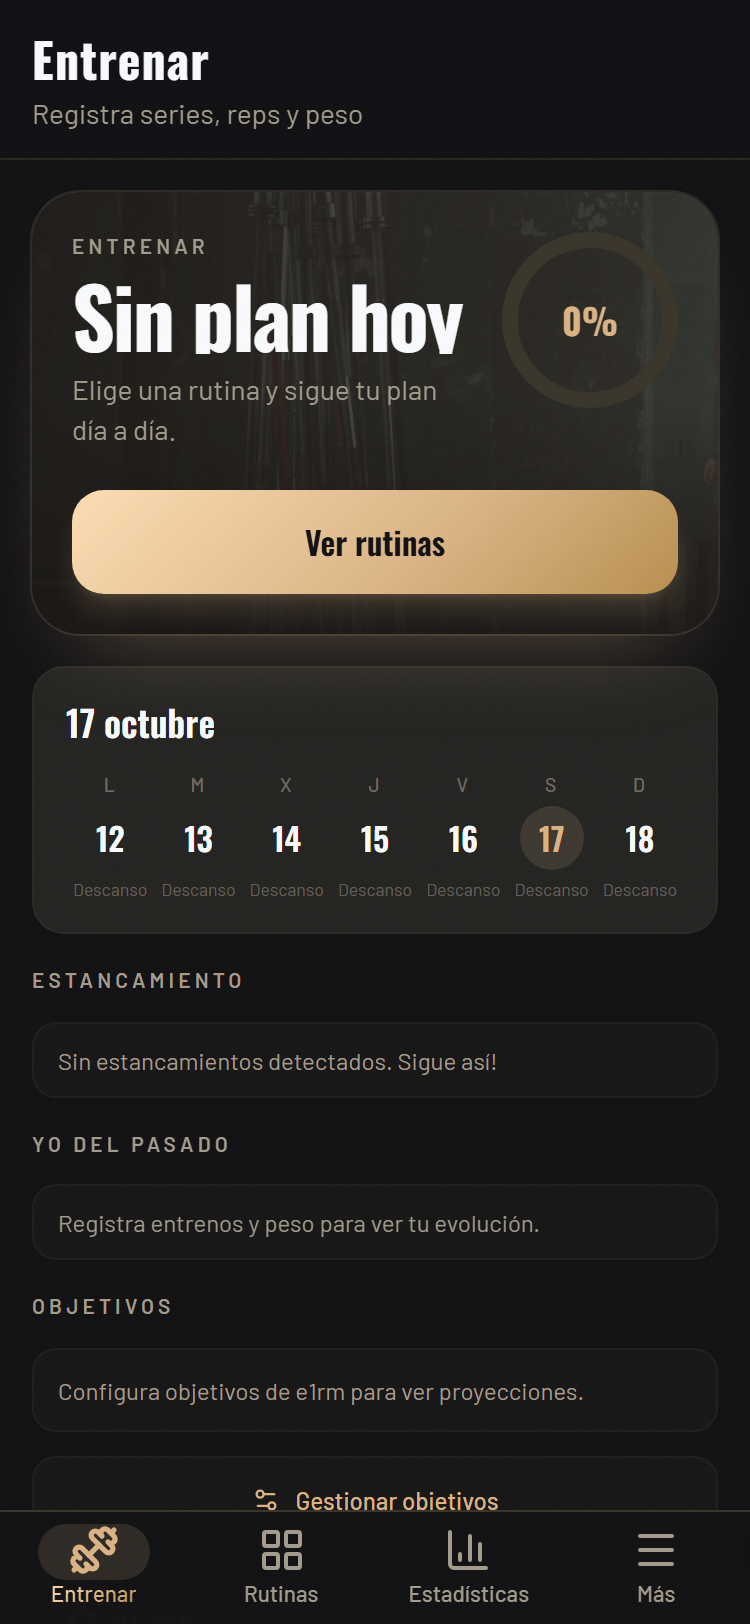
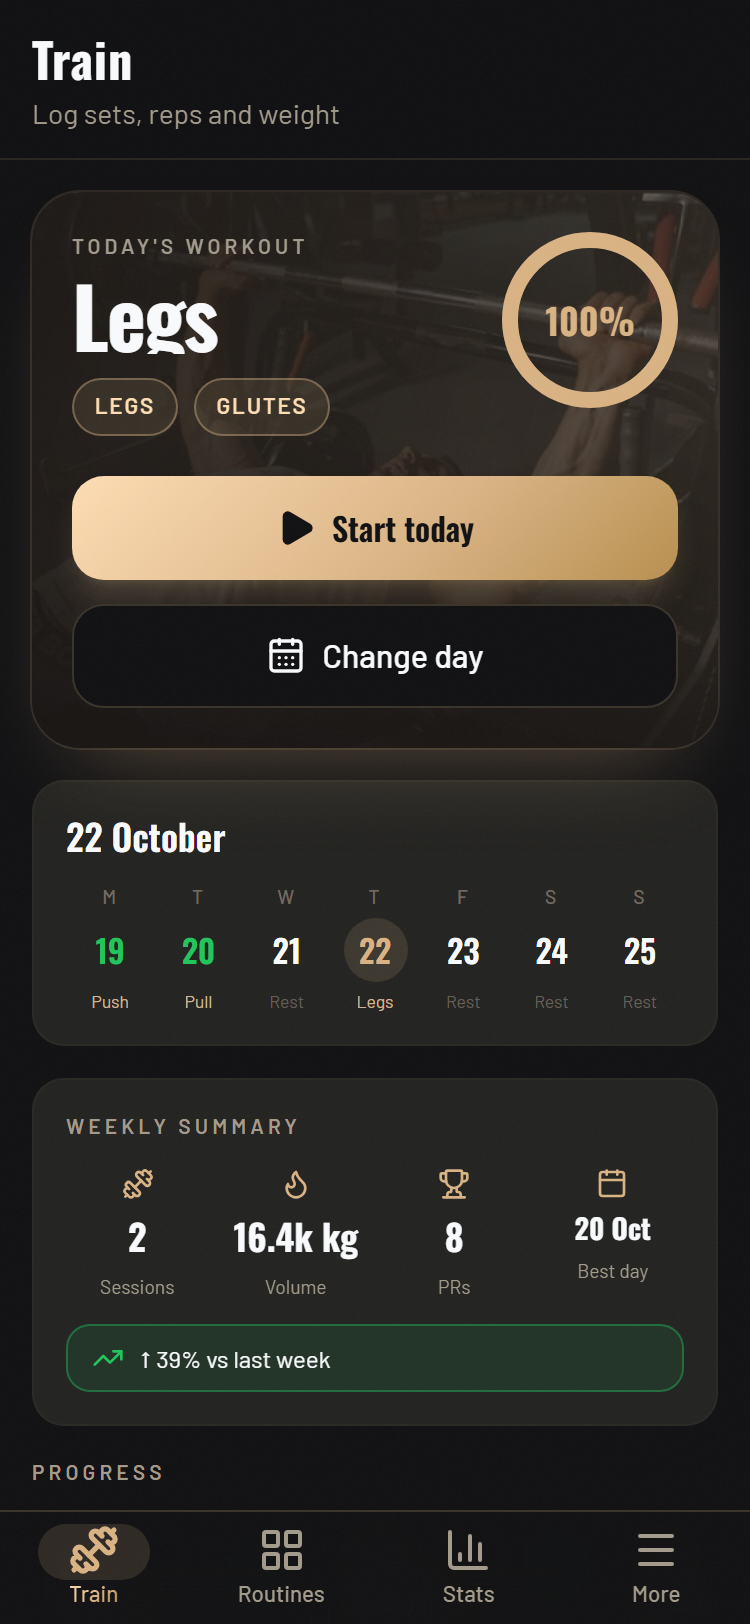
feat(showcase): show the home, a live session and the stats
Replaces the routines and exercise-catalogue shots with the three screens that carry the story: the active plan, the rest timer, and real charts. Copy is neutral Spanish and en-GB, and the stale WebP derivatives are gone.

diff --git a/src/i18n/es.ts b/src/i18n/es.ts
@@ -149,16 +149,16 @@ export const es = {
     title: 'Así se ve mientras entrenas',
     shots: [
       {
-        caption: 'Sesión en vivo, con temporizador',
-        alt: 'Captura de GymLab: sesión en vivo con temporizador de descanso y registro de series.',
+        caption: 'Tu plan activo, la racha y la semana en curso',
+        alt: 'Captura de GymLab: pantalla de entrenamiento con el plan activo, la racha actual y el calendario de la semana.',
       },
       {
-        caption: '68 plantillas listas para empezar',
-        alt: 'Captura de GymLab: pantalla de rutinas con plantillas y filtros por objetivo y nivel.',
+        caption: 'Sesión en vivo, con temporizador de descanso',
+        alt: 'Captura de GymLab: sesión en vivo con una serie registrada y el temporizador de descanso en marcha.',
       },
       {
-        caption: 'Catálogo de 873 ejercicios',
-        alt: 'Captura de GymLab: catálogo de 873 ejercicios con filtros por músculo, equipo y categoría.',
+        caption: 'Progreso real, en gráficas',
+        alt: 'Captura de GymLab: estadísticas con el volumen semanal, la racha y el objetivo de la semana a partir de tu historial.',
       },
     ],
   },

diff --git a/src/i18n/en.ts b/src/i18n/en.ts
@@ -151,16 +151,16 @@ export const en: Dict = {
     title: 'How it looks while you train',
     shots: [
       {
-        caption: 'Live session with a timer',
-        alt: 'GymLab screenshot: live session with a rest timer and set logging.',
+        caption: 'Your active plan, streak and week',
+        alt: 'GymLab screenshot: training screen with the active plan, current streak and this week’s calendar.',
       },
       {
-        caption: '68 templates ready to start',
-        alt: 'GymLab screenshot: routines screen with templates and filters by goal and level.',
+        caption: 'Live session with a running rest timer',
+        alt: 'GymLab screenshot: live session with a logged set and the rest timer counting down.',
       },
       {
-        caption: 'A catalogue of 873 exercises',
-        alt: 'GymLab screenshot: catalogue of 873 exercises with filters by muscle, equipment and category.',
+        caption: 'Real progress in real charts',
+        alt: 'GymLab screenshot: statistics with weekly volume, streak and the weekly goal built from your workout history.',
       },
     ],
   },
